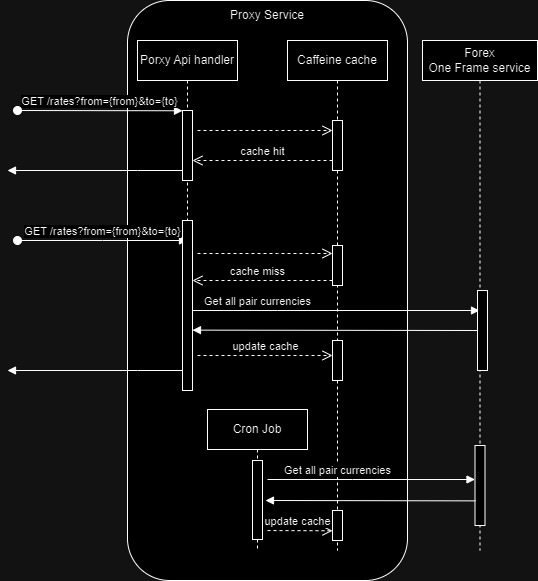
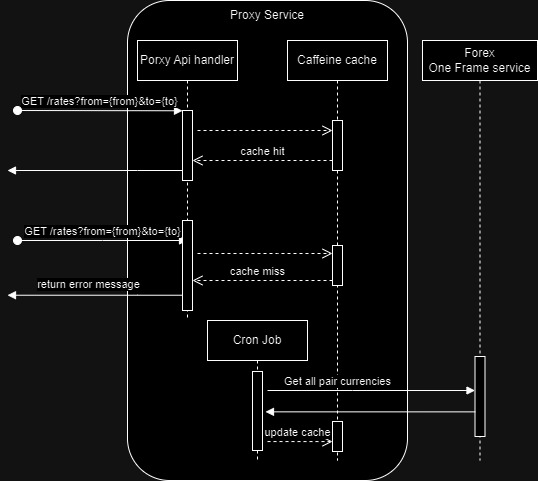
Avoid_high_volumn_in_short_period_hit_forex_limit Changes: - Change the get pair logic. When the cache miss it won't hit the one frame anymore. -Update diagrams

diff --git a/forex-mtl/README.md b/forex-mtl/README.md
@@ -19,7 +19,8 @@ While additional features can be integrated, the design aims to remain simple to
 - **Parameters:** `{from}` and `{to}` must match the configured currency codes.
 - **Authorization:** Bearer token: valid-token
 - **Response:** Returns the exchange rate between the specified currencies.
-[!NOTE]
+
+[!NOTE] 
 Currently it only supports AUD, CAD, CHF, EUR, GBP, NZD, JPY, SGD, USD.
 
 ### Refresh Cache
@@ -44,17 +45,21 @@ Currently it only supports AUD, CAD, CHF, EUR, GBP, NZD, JPY, SGD, USD.
 {
     "status": 500,
     "errorCode": 500,
-    "message": "Unexpected failure from one frame service"
+    "message": "Given currency pair can't find the rate."
 }
 ```
-[!NOTE]
+
+[!Note] 
 Currently, all external server issue will return 500 with different message.
 
 
 ## Caching Mechanism
-The service uses **Caffeine** for caching to enhance performance.
+The service uses Caffeine for caching to enhance performance.
+- The cache entries expire every 4.5 minutes.
+- Upon server startup, the cache is populated, and a cron job refreshes it every 2 minutes.
+- Additionally, the cache can be refreshed manually via an API call.
 
-**Exchange Rate Cache:** This is updated when the cache miss and cron job will update it by given time.
+**Exchange Rate Cache:**
  - **Key:** Pair (`from: Currency`, `to: Currency`)
  - **Value:** `{ price: BigDecimal, timestamp: Timestamp }`
  - **Expiration:** Cache entries expire 4.5 minutes after they are written.
@@ -71,11 +76,12 @@ The service supports Bearer authorization: "valid-token"
 | Test Case                          | expected result                                | passed |
 |------------------------------------|------------------------------------------------|--------|
 | Get the currency pair USD, EUR     | hit the cache and return the rates             | v      |
-| Get the currency pair USD, USD     | return the rates which is one                  | v      |
-|Get the cureency pair USD, TWD | return 400 and Unknown currency: TWD | v      |
-| Get the currency if cache is miss  | generate cache miss log and return the rates   | v      |
+| Get the currency pair USD, USD     | return the rates which is 1                    | v      |
+|Get the cureency pair USD, TWD | return 400 and Unknown currency: TWD           | v      |
+| Get the currency if cache is miss  | return 500 with error message                  | v      |
 | Hit the api without the bearer token | return http code 401                           | v      |
 | Cron job updates the cache         | check the response timestamp will be different | v      |
+| Refresh cache api | The cache timestamp will be changed. | v |
 | Forex timeout                      | get the error response with the message        | v      |
 | Forex is down                      | get the error response with the message        | v      |
 
